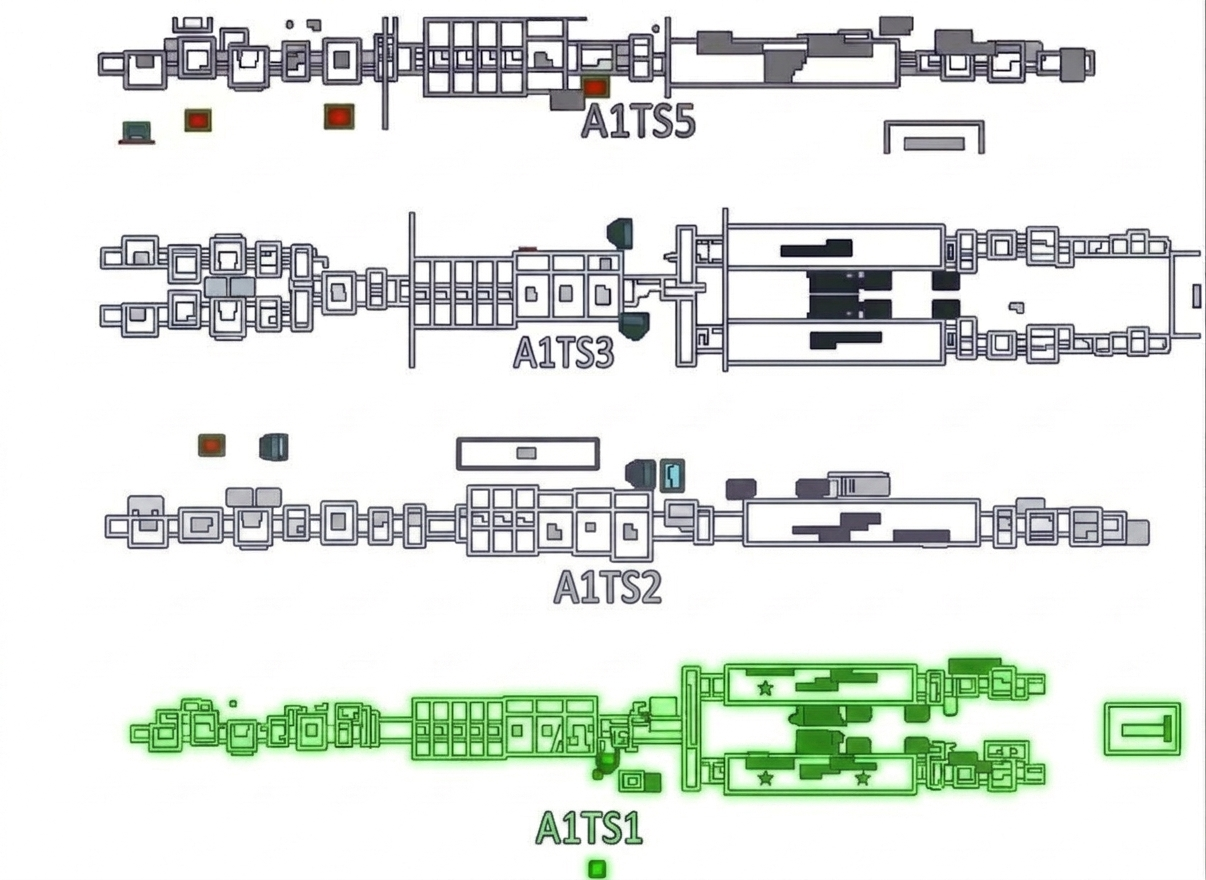
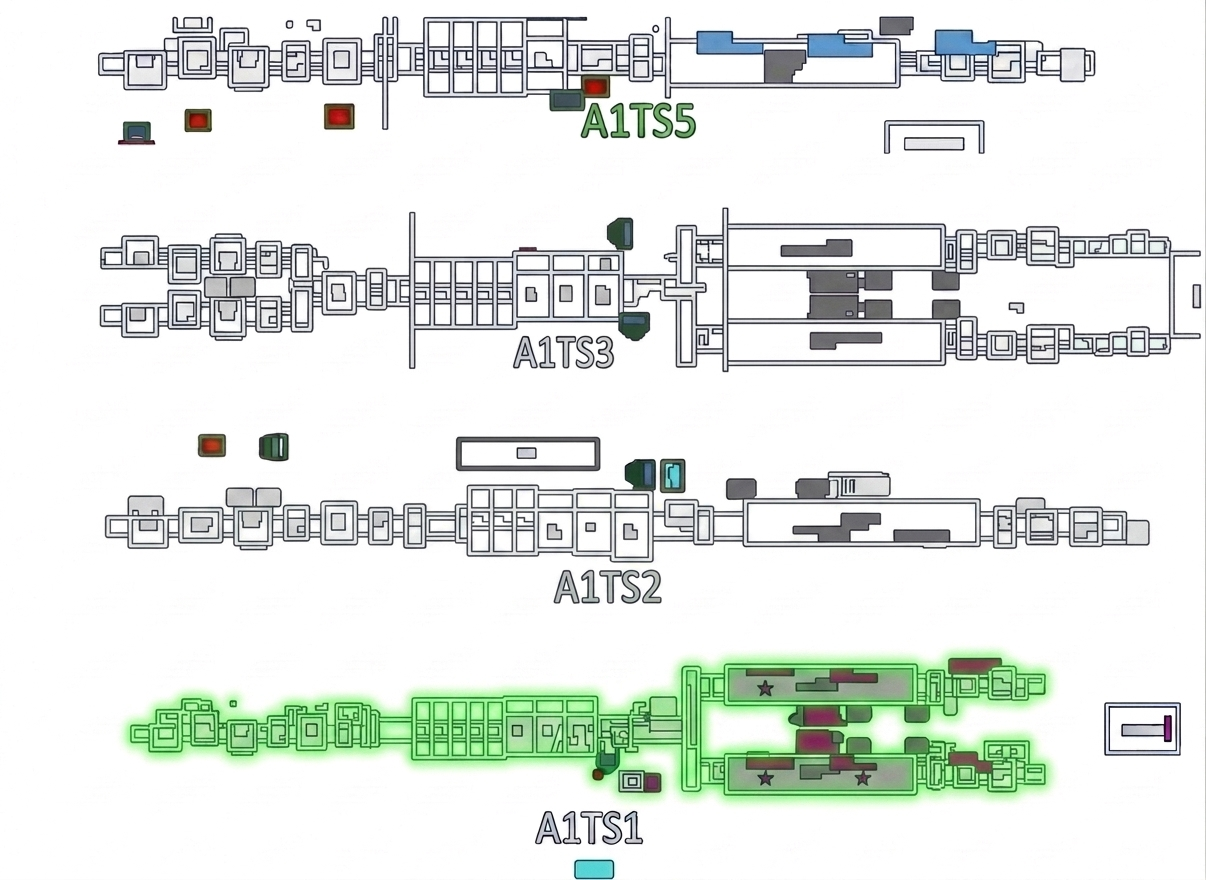
Refactor: fiexed overflow conflicts

diff --git a/frontend/src/pages/Machines.jsx b/frontend/src/pages/Machines.jsx
@@ -1,5 +1,6 @@
 import { useState } from "react"
 import { useParams, useNavigate } from "react-router-dom"
+import machine_icon from "../assets/machine2.png"
 
 export default function Machines() {
     const { lineId } = useParams()
@@ -14,13 +15,11 @@ export default function Machines() {
         return new URL(`../assets/${name}.png`, import.meta.url).href
     }
 
-    console.log(activeMachine)
-
     const image = () => setMachineImg(activeMachine)
 
     return (
-        <div>
-            <div >
+        <div className="h-full">
+            <div className="flex justify-center text-xl font-bold my-2">
                 <h1>{lineId}</h1>
             </div>
             <div className="flex justify-center">
@@ -28,65 +27,56 @@ export default function Machines() {
                     {machines.map((machine, index) => (
                         <li
                             key={index}
-                            className="flex items-center h-20 w-96 mb-4 mr-4 p-3 bg-gray-50 w-50 rounded-lg shadow-md cursor-pointer duration-200 hover:bg-blue-100"
+                            className="flex items-center h-15 w-76 mb-4 mr-4 p-3 bg-gray-50 w-50 rounded-lg shadow-md cursor-pointer duration-200 hover:bg-blue-100"
                             onMouseEnter={() => setActiveMachine(machine)}
                             onClick={() => navigate(`/line/${lineId}/${machine}`)} 
 
                         >
+                            <img className="h-full mr-2" src={machine_icon} alt="" />
                             {machine}
                         </li>
                     ))}
                 </ul>
-                <div className="w-1/2 shadow-md rounded-sm">
+                <div className="w-1/2 shadow-md rounded-sm h-full bg-gray-50">
                     {activeMachine && (
-                        <div>
-                            <h1 className="font-bold text-2xl m-2">
+                        <div className="h-full">
+                           <h1 className="text-xl font-bold my-2 mx-4">
                                 {activeMachine}
-                            </h1>
-                            <p className="m-2">
-                                Name
-                            </p>
-                            <div className="flex justify-center py-10 border-b border-b-gray-200">
-                                <img src={getImageUrl(activeMachine)} alt={activeMachine} />
-                            </div>
-                            <div className="flex gap-4 m-10">
-                                <div className="flex flex-col gap-4 mr-12">
+                           </h1>
+                           <h5 className="text-sm mb-3 mx-4">
+                                panasonic
+                           </h5>
+                           <div className="flex justify-center mb-4 mx-6 border-b border-gray-300 h-1/2">
+                                <img className="mb-4" src={getImageUrl(activeMachine)} alt="" />
+                           </div>
+                           <div className="flex m-4">
+                                <div>
                                     <div>
                                         <h1>
                                             Make
                                         </h1>
-                                        <h1>
-                                            Make name
-                                        </h1>
+                                        <h5>
+                                            Panasonic
+                                        </h5>
                                     </div>
                                     <div>
                                         <h1>
                                             Location
                                         </h1>
-                                        <h1>
-                                            {lineId}
-                                        </h1>
-
-                                    </div>
-                                    <div>
-                                        <h1>
-                                            Description
-                                        </h1>
-                                        <h1>
-                                            Machine Description
-                                        </h1>
-
+                                        <h5>
+                                            SMT-L1
+                                        </h5>
                                     </div>
 
                                 </div>
-                                <div className="flex flex-col gap-4 mr-12">
+                                <div>
                                     <div>
                                         <h1>
-                                            Model
+                                            Modelo
                                         </h1>
-                                        <h1>
-                                            Model name
-                                        </h1>
+                                        <h5>
+                                            NPM-D3A
+                                        </h5>
                                     </div>
                                     <div>
                                         <h1>
@@ -95,16 +85,11 @@ export default function Machines() {
                                         <h1>
                                             Printer
                                         </h1>
-
-                                    </div>
-                                    <div>
-                                        
-
                                     </div>
 
                                 </div>
-                            </div>
-                            
+                           </div>
+                           
                         </div>
                     )}
                 </div>

diff --git a/frontend/src/components/SmtLines.jsx b/frontend/src/components/SmtLines.jsx
@@ -7,31 +7,29 @@ import SMTL2 from "../assets/Lines/A1TS2.png"
 import SMTL1 from "../assets/Lines/A1TS1.png"
 import Chip from "../assets/green_chip.png"
 
-export default function smtLines() {
-    const [activeLine, setActiveLine] = useState(null)
-    const navigate = useNavigate()
-    const lines = ["SMT-L5", "SMT-L3", "SMT-L2", "SMT-L1"]
-    const [currentImage, setCurrentImage] = useState(null)
-
-    const iconUrl = Chip
-
-    const imageMap = {
+const imageMap = {
         "SMT-L5": SMTL5,
         "SMT-L3": SMTL3,
         "SMT-L2": SMTL2,
         "SMT-L1": SMTL1
     }
 
+export default function smtLines() {
+    const [activeLine, setActiveLine] = useState(null)
+    const navigate = useNavigate()
+    const lines = ["SMT-L5", "SMT-L3", "SMT-L2", "SMT-L1"]
 
     useEffect(() => {
-        if (activeLine && imageMap[activeLine]) {
-            setCurrentImage(imageMap[activeLine])
-        } else {
-            setCurrentImage(Neutral)
-        }
-    }, [activeLine])
-
-   
+        Object.values(imageMap).forEach((src) => {
+            const img = new Image()
+            img.src = src
+        })
+        const imgNeutral = new Image()
+        imgNeutral.src = Neutral
+    }, [])
+    
+    const currentImage = (activeLine && imageMap[activeLine]) ? imageMap[activeLine] : Neutral
+  
 
     return (
         <div className="flex flex-1 h-full min-h-0">
@@ -39,12 +37,12 @@ export default function smtLines() {
                 {lines.map((line, index) => (
                     <li
                         key={index}
-                        className="flex items-center h-16 w-64 mb-4 mr-4 p-3 bg-gray-50 rounded-lg shadow-md cursor-pointer duration-200 hover:bg-lime-50"
+                        className="flex items-center h-16 w-64 mb-4 mr-4 p-3 bg-zinc-50 rounded-lg shadow-md cursor-pointer duration-200 hover:bg-lime-50"
                         onMouseEnter={() => setActiveLine(line)}
                         onMouseLeave={() => setActiveLine(null)}
                         onClick={() => navigate(`/line/${line}`)}
                     >
-                        <img className="h-8 m-2" src={iconUrl} alt="" />
+                        <img className="h-8 m-2" src={Chip} alt="chip-icon" />
                         <p className="font-bold">
                             {line}
                         </p>
@@ -53,9 +51,9 @@ export default function smtLines() {
                 ))}
             </ul>
 
-            <div className="shadow-lg flex-1 h-full w-full min-w-0 overflow-hidden rounded-lg">
+            <div className="shadow-lg flex-1 h-full w-full min-w-0 overflow-hidden rounded-sm">
                 <img 
-                    className="max-h-full max-w-full object-contain" 
+                    className="max-h-full max-w-full object-cover" 
                     src={currentImage} 
                     alt={activeLine || "neutral lines"} 
                 />

diff --git a/frontend/src/pages/Lines.jsx b/frontend/src/pages/Lines.jsx
@@ -9,12 +9,12 @@ export default function Lines() {
 
 
     return (
-        <div className="flex flex-col flex-1 min-h-0">
+        <div className="flex flex-col flex-1 w-full min-h-0">
 
-            <div className="flex justify-center my-6">                
+            <div className="flex justify-center w-full my-2">                
                 <button
                     onClick={() => setSelectedDept("SMT")}
-                    className={`px-6 py-2.5 w-1/9 bg-[#2d3748] text-white font-semibold rounded-l-lg border border-transparent shadow-sm transition-all duration-200 hover:bg-[#3a475c] active:scale-95 ${selectedDept === "SMT"
+                    className={`px-6 py-1.5 w-1/9 bg-[#2d3748] text-white font-semibold rounded-l-lg border border-transparent shadow-sm transition-all duration-200 hover:bg-[#3a475c] active:scale-95 ${selectedDept === "SMT"
                         ? "bg-[#2d3748] text-white shadow-sm border border-transparent hover:bg-[#3a475c]"
                         : "bg-slate-800/40 text-gray-400 border border-slate-700/50 hover:text-white"
                         }`}
@@ -23,7 +23,7 @@ export default function Lines() {
                 </button>
                 <button
                     onClick={() => setSelectedDept("DIP")}
-                    className={`px-6 py-2.5 w-1/9 bg-[#2d3748] text-white font-semibold rounded-r-lg border border-transparent shadow-sm transition-all duration-200 hover:bg-[#3a475c] active:scale-95 ${selectedDept === "DIP"
+                    className={`px-6 py-1.5 w-1/9 bg-[#2d3748] text-white font-semibold rounded-r-lg border border-transparent shadow-sm transition-all duration-200 hover:bg-[#3a475c] active:scale-95 ${selectedDept === "DIP"
                         ? "bg-[#2d3748] text-white shadow-sm border border-transparent hover:bg-[#3a475c]"
                         : "bg-slate-800/40 text-gray-400 border border-slate-700/50 hover:text-white"
                         }`}
@@ -36,7 +36,7 @@ export default function Lines() {
                     SELECT LINE
                 </h1>
             </div>
-            <div className="flex-1 min-h-0 w-9/10 flex flex-col m-8 items-center">
+            <div className="flex-1 min-h-0 w-full flex flex-col m-8 items-center">
                 {selectedDept === "SMT" && <SmtLines />}
                 {selectedDept === "DIP" && <DIP />}
             </div>

diff --git a/frontend/src/layouts/MainLayout.jsx b/frontend/src/layouts/MainLayout.jsx
@@ -6,12 +6,12 @@ import Sidebar from '../components/Sidebar'
 export default function MainLayout() {
   return (
 
-    <div className='flex flex-col h-screen w-screen flex-col overflow-hidden'>
+    <div className='flex flex-col h-screen w-screen flex-col overflow-hidden bg-neutral-100'>
        <nav className="h-1/12">
         <Navabar />
       </nav>
 
-      <main className="flex-1 min-h-0 bg-neutral-100 flex flex-col">
+      <main className="flex-1 min-h-0 w-full flex flex-col overflow-hidden">
         <Outlet />        
       </main>
       
